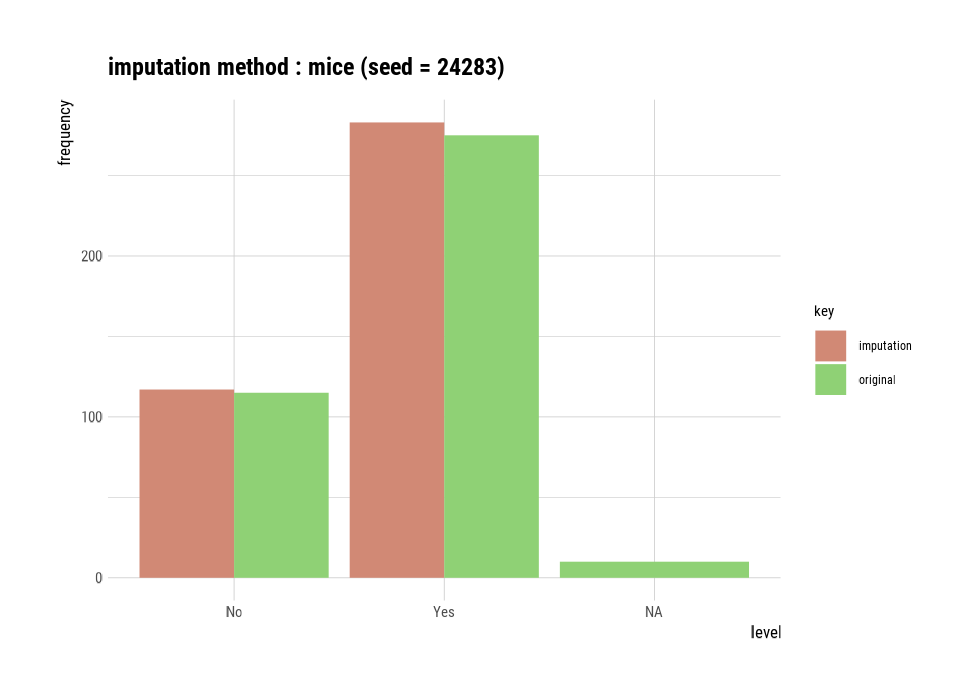
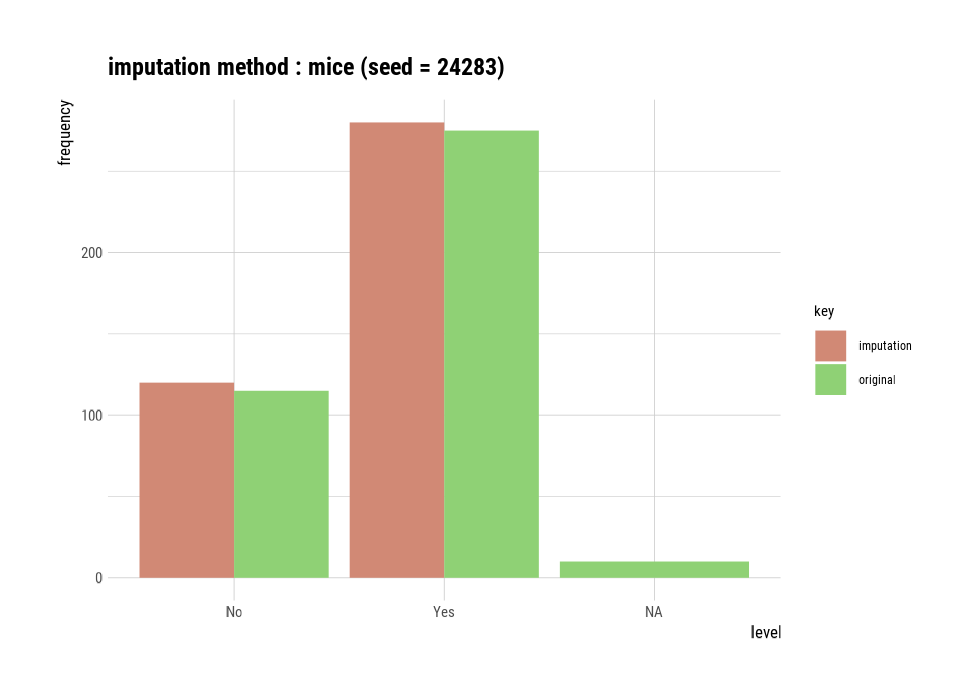
update package documents

diff --git a/docs/articles/transformation.html b/docs/articles/transformation.html
@@ -79,7 +79,7 @@
                         <h4 data-toc-skip class="author">Choonghyun
 Ryu</h4>
             
-            <h4 data-toc-skip class="date">2023-11-23</h4>
+            <h4 data-toc-skip class="date">2023-11-25</h4>
       
       <small class="dont-index">Source: <a href="https://github.com/choonghyunryu/dlookr/blob/HEAD/vignettes/transformation.Rmd" class="external-link"><code>vignettes/transformation.Rmd</code></a></small>
       <div class="hidden name"><code>transformation.Rmd</code></div>
@@ -434,9 +434,9 @@ the “mice” method.</p>
 <span id="cb4-55"><a href="#cb4-55" tabindex="-1"></a></span>
 <span id="cb4-56"><a href="#cb4-56" tabindex="-1"></a><span class="sc">*</span> Information of <span class="fu">Imputation</span> (before vs after)</span>
 <span id="cb4-57"><a href="#cb4-57" tabindex="-1"></a>     original imputation original_percent imputation_percent</span>
-<span id="cb4-58"><a href="#cb4-58" tabindex="-1"></a>No        <span class="dv">115</span>        <span class="dv">117</span>            <span class="fl">28.75</span>              <span class="fl">29.25</span></span>
-<span id="cb4-59"><a href="#cb4-59" tabindex="-1"></a>Yes       <span class="dv">275</span>        <span class="dv">283</span>            <span class="fl">68.75</span>              <span class="fl">70.75</span></span>
-<span id="cb4-60"><a href="#cb4-60" tabindex="-1"></a><span class="sc">&lt;</span><span class="cn">NA</span><span class="sc">&gt;</span>       <span class="dv">10</span>          <span class="dv">0</span>             <span class="fl">2.50</span>               <span class="fl">0.00</span></span></code></pre></div>
+<span id="cb4-58"><a href="#cb4-58" tabindex="-1"></a>No        <span class="dv">115</span>        <span class="dv">120</span>            <span class="fl">28.75</span>                 <span class="dv">30</span></span>
+<span id="cb4-59"><a href="#cb4-59" tabindex="-1"></a>Yes       <span class="dv">275</span>        <span class="dv">280</span>            <span class="fl">68.75</span>                 <span class="dv">70</span></span>
+<span id="cb4-60"><a href="#cb4-60" tabindex="-1"></a><span class="sc">&lt;</span><span class="cn">NA</span><span class="sc">&gt;</span>       <span class="dv">10</span>          <span class="dv">0</span>             <span class="fl">2.50</span>                  <span class="dv">0</span></span></code></pre></div>
 <p><img src="transformation_files/figure-html/imputate_na2-1.png" width="600px" style="display: block; margin: auto;"></p>
 </div>
 <div class="section level3">
@@ -634,10 +634,10 @@ contain 0.</li>
 </h3>
 <p>Use the methods “zscore” and “minmax” to perform standardization.</p>
 <div class="sourceCode" id="cb8"><pre class="downlit sourceCode r">
-<code class="sourceCode R"><span><span class="va">carseats</span> <span class="op"><a href="https://magrittr.tidyverse.org/reference/pipe.html" class="external-link">%&gt;%</a></span> </span>
-<span>  <span class="fu"><a href="https://dplyr.tidyverse.org/reference/mutate.html" class="external-link">mutate</a></span><span class="op">(</span>Income_minmax <span class="op">=</span> <span class="fu"><a href="../reference/transform.html">transform</a></span><span class="op">(</span><span class="va">carseats</span><span class="op">$</span><span class="va">Income</span>, method <span class="op">=</span> <span class="st">"minmax"</span><span class="op">)</span>,</span>
-<span>    Sales_minmax <span class="op">=</span> <span class="fu"><a href="../reference/transform.html">transform</a></span><span class="op">(</span><span class="va">carseats</span><span class="op">$</span><span class="va">Sales</span>, method <span class="op">=</span> <span class="st">"minmax"</span><span class="op">)</span><span class="op">)</span> <span class="op"><a href="https://magrittr.tidyverse.org/reference/pipe.html" class="external-link">%&gt;%</a></span> </span>
-<span>  <span class="fu"><a href="https://dplyr.tidyverse.org/reference/select.html" class="external-link">select</a></span><span class="op">(</span><span class="va">Income_minmax</span>, <span class="va">Sales_minmax</span><span class="op">)</span> <span class="op"><a href="https://magrittr.tidyverse.org/reference/pipe.html" class="external-link">%&gt;%</a></span> </span>
+<code class="sourceCode R"><span><span class="va">carseats</span> <span class="op">%&gt;%</span> </span>
+<span>  <span class="fu">mutate</span><span class="op">(</span>Income_minmax <span class="op">=</span> <span class="fu"><a href="../reference/transform.html">transform</a></span><span class="op">(</span><span class="va">carseats</span><span class="op">$</span><span class="va">Income</span>, method <span class="op">=</span> <span class="st">"minmax"</span><span class="op">)</span>,</span>
+<span>    Sales_minmax <span class="op">=</span> <span class="fu"><a href="../reference/transform.html">transform</a></span><span class="op">(</span><span class="va">carseats</span><span class="op">$</span><span class="va">Sales</span>, method <span class="op">=</span> <span class="st">"minmax"</span><span class="op">)</span><span class="op">)</span> <span class="op">%&gt;%</span> </span>
+<span>  <span class="fu">select</span><span class="op">(</span><span class="va">Income_minmax</span>, <span class="va">Sales_minmax</span><span class="op">)</span> <span class="op">%&gt;%</span> </span>
 <span>  <span class="fu"><a href="https://rdrr.io/r/graphics/boxplot.html" class="external-link">boxplot</a></span><span class="op">(</span><span class="op">)</span></span></code></pre></div>
 <p><img src="transformation_files/figure-html/standardization-1.png" width="600px" style="display: block; margin: auto;"></p>
 </div>
@@ -834,8 +834,8 @@ frequencies</li>
 <span id="cb13-30"><a href="#cb13-30" tabindex="-1"></a>binned type<span class="sc">:</span> bclust</span>
 <span id="cb13-31"><a href="#cb13-31" tabindex="-1"></a>number of bins<span class="sc">:</span> <span class="dv">5</span></span>
 <span id="cb13-32"><a href="#cb13-32" tabindex="-1"></a>x</span>
-<span id="cb13-33"><a href="#cb13-33" tabindex="-1"></a>  [<span class="dv">21</span>,<span class="fl">38.5</span>]   (<span class="fl">38.5</span>,<span class="dv">49</span>]   (<span class="dv">49</span>,<span class="fl">77.5</span>] (<span class="fl">77.5</span>,<span class="fl">95.5</span>]  (<span class="fl">95.5</span>,<span class="dv">120</span>]        <span class="sc">&lt;</span><span class="cn">NA</span><span class="sc">&gt;</span> </span>
-<span id="cb13-34"><a href="#cb13-34" tabindex="-1"></a>         <span class="dv">74</span>          <span class="dv">41</span>         <span class="dv">111</span>          <span class="dv">75</span>          <span class="dv">79</span>          <span class="dv">20</span> </span>
+<span id="cb13-33"><a href="#cb13-33" tabindex="-1"></a>  [<span class="dv">21</span>,<span class="fl">31.5</span>] (<span class="fl">31.5</span>,<span class="fl">50.5</span>] (<span class="fl">50.5</span>,<span class="fl">78.5</span>] (<span class="fl">78.5</span>,<span class="fl">95.5</span>]  (<span class="fl">95.5</span>,<span class="dv">120</span>]        <span class="sc">&lt;</span><span class="cn">NA</span><span class="sc">&gt;</span> </span>
+<span id="cb13-34"><a href="#cb13-34" tabindex="-1"></a>         <span class="dv">43</span>          <span class="dv">73</span>         <span class="dv">114</span>          <span class="dv">71</span>          <span class="dv">79</span>          <span class="dv">20</span> </span>
 <span id="cb13-35"><a href="#cb13-35" tabindex="-1"></a></span>
 <span id="cb13-36"><a href="#cb13-36" tabindex="-1"></a><span class="co"># Extract the binned results</span></span>
 <span id="cb13-37"><a href="#cb13-37" tabindex="-1"></a><span class="fu">extract</span>(bin)</span>
@@ -1067,7 +1067,7 @@ following arguments.</p>
 <p>The following script creates a data transformation report for the
 <code>tbl_df</code> class object, <code>heartfailure</code>.</p>
 <div class="sourceCode" id="cb16"><pre class="downlit sourceCode r">
-<code class="sourceCode R"><span><span class="va">heartfailure</span> <span class="op"><a href="https://magrittr.tidyverse.org/reference/pipe.html" class="external-link">%&gt;%</a></span></span>
+<code class="sourceCode R"><span><span class="va">heartfailure</span> <span class="op">%&gt;%</span></span>
 <span>  <span class="fu"><a href="../reference/transformation_web_report.html">transformation_web_report</a></span><span class="op">(</span>target <span class="op">=</span> <span class="st">"death_event"</span>, subtitle <span class="op">=</span> <span class="st">"heartfailure"</span>,</span>
 <span>                            output_dir <span class="op">=</span> <span class="st">"./"</span>, output_file <span class="op">=</span> <span class="st">"transformation.html"</span>, </span>
 <span>                            theme <span class="op">=</span> <span class="st">"blue"</span><span class="op">)</span></span></code></pre></div>
@@ -1200,7 +1200,7 @@ following arguments.</p>
 <p>The following script creates a data transformation report for the
 <code>data.frame</code> class object, <code>heartfailure</code>.</p>
 <div class="sourceCode" id="cb17"><pre class="downlit sourceCode r">
-<code class="sourceCode R"><span><span class="va">heartfailure</span> <span class="op"><a href="https://magrittr.tidyverse.org/reference/pipe.html" class="external-link">%&gt;%</a></span></span>
+<code class="sourceCode R"><span><span class="va">heartfailure</span> <span class="op">%&gt;%</span></span>
 <span>  <span class="fu"><a href="../reference/transformation_paged_report.html">transformation_paged_report</a></span><span class="op">(</span>target <span class="op">=</span> <span class="st">"death_event"</span>, subtitle <span class="op">=</span> <span class="st">"heartfailure"</span>,</span>
 <span>                              output_dir <span class="op">=</span> <span class="st">"./"</span>, output_file <span class="op">=</span> <span class="st">"transformation.pdf"</span>, </span>
 <span>                              theme <span class="op">=</span> <span class="st">"blue"</span><span class="op">)</span></span></code></pre></div>

diff --git a/docs/reference/medicost.html b/docs/reference/medicost.html
@@ -1,0 +1,121 @@
+<!DOCTYPE html>
+<!-- Generated by pkgdown: do not edit by hand --><html lang="en"><head><meta http-equiv="Content-Type" content="text/html; charset=UTF-8"><meta charset="utf-8"><meta http-equiv="X-UA-Compatible" content="IE=edge"><meta name="viewport" content="width=device-width, initial-scale=1.0"><title>Medical Cost Personal Datasets — medicost • dlookr</title><!-- jquery --><script src="https://cdnjs.cloudflare.com/ajax/libs/jquery/3.4.1/jquery.min.js" integrity="sha256-CSXorXvZcTkaix6Yvo6HppcZGetbYMGWSFlBw8HfCJo=" crossorigin="anonymous"></script><!-- Bootstrap --><link href="https://cdnjs.cloudflare.com/ajax/libs/bootswatch/3.4.0/united/bootstrap.min.css" rel="stylesheet" crossorigin="anonymous"><script src="https://cdnjs.cloudflare.com/ajax/libs/twitter-bootstrap/3.4.1/js/bootstrap.min.js" integrity="sha256-nuL8/2cJ5NDSSwnKD8VqreErSWHtnEP9E7AySL+1ev4=" crossorigin="anonymous"></script><!-- bootstrap-toc --><link rel="stylesheet" href="../bootstrap-toc.css"><script src="../bootstrap-toc.js"></script><!-- Font Awesome icons --><link rel="stylesheet" href="https://cdnjs.cloudflare.com/ajax/libs/font-awesome/5.12.1/css/all.min.css" integrity="sha256-mmgLkCYLUQbXn0B1SRqzHar6dCnv9oZFPEC1g1cwlkk=" crossorigin="anonymous"><link rel="stylesheet" href="https://cdnjs.cloudflare.com/ajax/libs/font-awesome/5.12.1/css/v4-shims.min.css" integrity="sha256-wZjR52fzng1pJHwx4aV2AO3yyTOXrcDW7jBpJtTwVxw=" crossorigin="anonymous"><!-- clipboard.js --><script src="https://cdnjs.cloudflare.com/ajax/libs/clipboard.js/2.0.6/clipboard.min.js" integrity="sha256-inc5kl9MA1hkeYUt+EC3BhlIgyp/2jDIyBLS6k3UxPI=" crossorigin="anonymous"></script><!-- headroom.js --><script src="https://cdnjs.cloudflare.com/ajax/libs/headroom/0.11.0/headroom.min.js" integrity="sha256-AsUX4SJE1+yuDu5+mAVzJbuYNPHj/WroHuZ8Ir/CkE0=" crossorigin="anonymous"></script><script src="https://cdnjs.cloudflare.com/ajax/libs/headroom/0.11.0/jQuery.headroom.min.js" integrity="sha256-ZX/yNShbjqsohH1k95liqY9Gd8uOiE1S4vZc+9KQ1K4=" crossorigin="anonymous"></script><!-- pkgdown --><link href="../pkgdown.css" rel="stylesheet"><script src="../pkgdown.js"></script><meta property="og:title" content="Medical Cost Personal Datasets — medicost"><meta property="og:description" content="A dataset containing the age and other attributes of almost 1400 cases."><!-- mathjax --><script src="https://cdnjs.cloudflare.com/ajax/libs/mathjax/2.7.5/MathJax.js" integrity="sha256-nvJJv9wWKEm88qvoQl9ekL2J+k/RWIsaSScxxlsrv8k=" crossorigin="anonymous"></script><script src="https://cdnjs.cloudflare.com/ajax/libs/mathjax/2.7.5/config/TeX-AMS-MML_HTMLorMML.js" integrity="sha256-84DKXVJXs0/F8OTMzX4UR909+jtl4G7SPypPavF+GfA=" crossorigin="anonymous"></script><!--[if lt IE 9]>
+<script src="https://oss.maxcdn.com/html5shiv/3.7.3/html5shiv.min.js"></script>
+<script src="https://oss.maxcdn.com/respond/1.4.2/respond.min.js"></script>
+<![endif]--></head><body data-spy="scroll" data-target="#toc">
+    
+
+    <div class="container template-reference-topic">
+      <header><div class="navbar navbar-default navbar-fixed-top" role="navigation">
+  <div class="container">
+    <div class="navbar-header">
+      <button type="button" class="navbar-toggle collapsed" data-toggle="collapse" data-target="#navbar" aria-expanded="false">
+        <span class="sr-only">Toggle navigation</span>
+        <span class="icon-bar"></span>
+        <span class="icon-bar"></span>
+        <span class="icon-bar"></span>
+      </button>
+      <span class="navbar-brand">
+        <a class="navbar-link" href="../index.html">dlookr</a>
+        <span class="version label label-default" data-toggle="tooltip" data-placement="bottom" title="">0.6.3</span>
+      </span>
+    </div>
+
+    <div id="navbar" class="navbar-collapse collapse">
+      <ul class="nav navbar-nav"><li>
+  <a href="../articles/introduce.html">Introduce dlookr</a>
+</li>
+<li>
+  <a href="../articles/diagonosis.html">Data Diagnosis</a>
+</li>
+<li>
+  <a href="../articles/EDA.html">EDA</a>
+</li>
+<li>
+  <a href="../articles/transformation.html">Data Transformation</a>
+</li>
+      </ul><ul class="nav navbar-nav navbar-right"><li>
+  <a href="../reference/index.html">Function reference</a>
+</li>
+<li>
+  <a href="https://github.com/choonghyunryu/dlookr/" class="external-link">
+    <span class="fa fa-github fa-lg"></span>
+     
+  </a>
+</li>
+      </ul></div><!--/.nav-collapse -->
+  </div><!--/.container -->
+</div><!--/.navbar -->
+
+      
+
+      </header><div class="row">
+  <div class="col-md-9 contents">
+    <div class="page-header">
+    <h1>Medical Cost Personal Datasets</h1>
+    <small class="dont-index">Source: <a href="https://github.com/choonghyunryu/dlookr/blob/HEAD/R/medicost.R" class="external-link"><code>R/medicost.R</code></a></small>
+    <div class="hidden name"><code>medicost.Rd</code></div>
+    </div>
+
+    <div class="ref-description">
+    <p>A dataset containing the age and other attributes of almost 1400 cases.</p>
+    </div>
+
+    <div id="ref-usage">
+    <div class="sourceCode"><pre class="sourceCode r"><code><span><span class="fu"><a href="https://rdrr.io/r/utils/data.html" class="external-link">data</a></span><span class="op">(</span><span class="va">medicost</span><span class="op">)</span></span></code></pre></div>
+    </div>
+
+    <div id="format">
+    <h2>Format</h2>
+    <p>A data frame with 1338 rows and 7 variables. The variables are as follows:</p><dl><dt>age</dt>
+<dd><p>age of primary beneficiary.</p></dd>
+
+  <dt>sex</dt>
+<dd><p>insurance contractor gender, female, male.</p></dd>
+
+  <dt>bmi</dt>
+<dd><p>body mass index, providing an understanding of body, weights that are relatively high or low relative to height, objective index of body weight (kg / m ^ 2) using the ratio of height to weight, ideally 18.5 to 24.9.</p></dd>
+
+  <dt>children</dt>
+<dd><p>number of children covered by health insurance / Number of dependents.</p></dd>
+
+  <dt>smoker</dt>
+<dd><p>flag of smoking, yes, no.</p></dd>
+
+  <dt>region</dt>
+<dd><p>the beneficiary's residential area in the US, northeast, southeast, southwest, northwest.</p></dd>
+
+  <dt>charges</dt>
+<dd><p>individual medical costs billed by health insurance.</p></dd>
+
+
+</dl></div>
+    <div id="source">
+    <h2>Source</h2>
+    <p>"Medical Cost Personal Datasets" in Kaggle &lt;https://www.kaggle.com/datasets/mirichoi0218/insurance/&gt;, License : Open Database License</p>
+    </div>
+
+  </div>
+  <div class="col-md-3 hidden-xs hidden-sm" id="pkgdown-sidebar">
+    <nav id="toc" data-toggle="toc" class="sticky-top"><h2 data-toc-skip>Contents</h2>
+    </nav></div>
+</div>
+
+
+      <footer><div class="copyright">
+  <p></p><p>Developed by Choonghyun Ryu.</p>
+</div>
+
+<div class="pkgdown">
+  <p></p><p>Site built with <a href="https://pkgdown.r-lib.org/" class="external-link">pkgdown</a> 2.0.7.</p>
+</div>
+
+      </footer></div>
+
+  
+
+
+  
+
+  </body></html>
+

diff --git a/docs/reference/index.html b/docs/reference/index.html
@@ -519,6 +519,10 @@
           <p><code><a href="jobchange.html">jobchange</a></code> </p>
         </td>
         <td><p>Job Change of Data Scientists</p></td>
+      </tr><tr><td>
+          <p><code><a href="medicost.html">medicost</a></code> </p>
+        </td>
+        <td><p>Medical Cost Personal Datasets</p></td>
       </tr></tbody></table></div>
 
   <div class="col-md-3 hidden-xs hidden-sm" id="pkgdown-sidebar">
